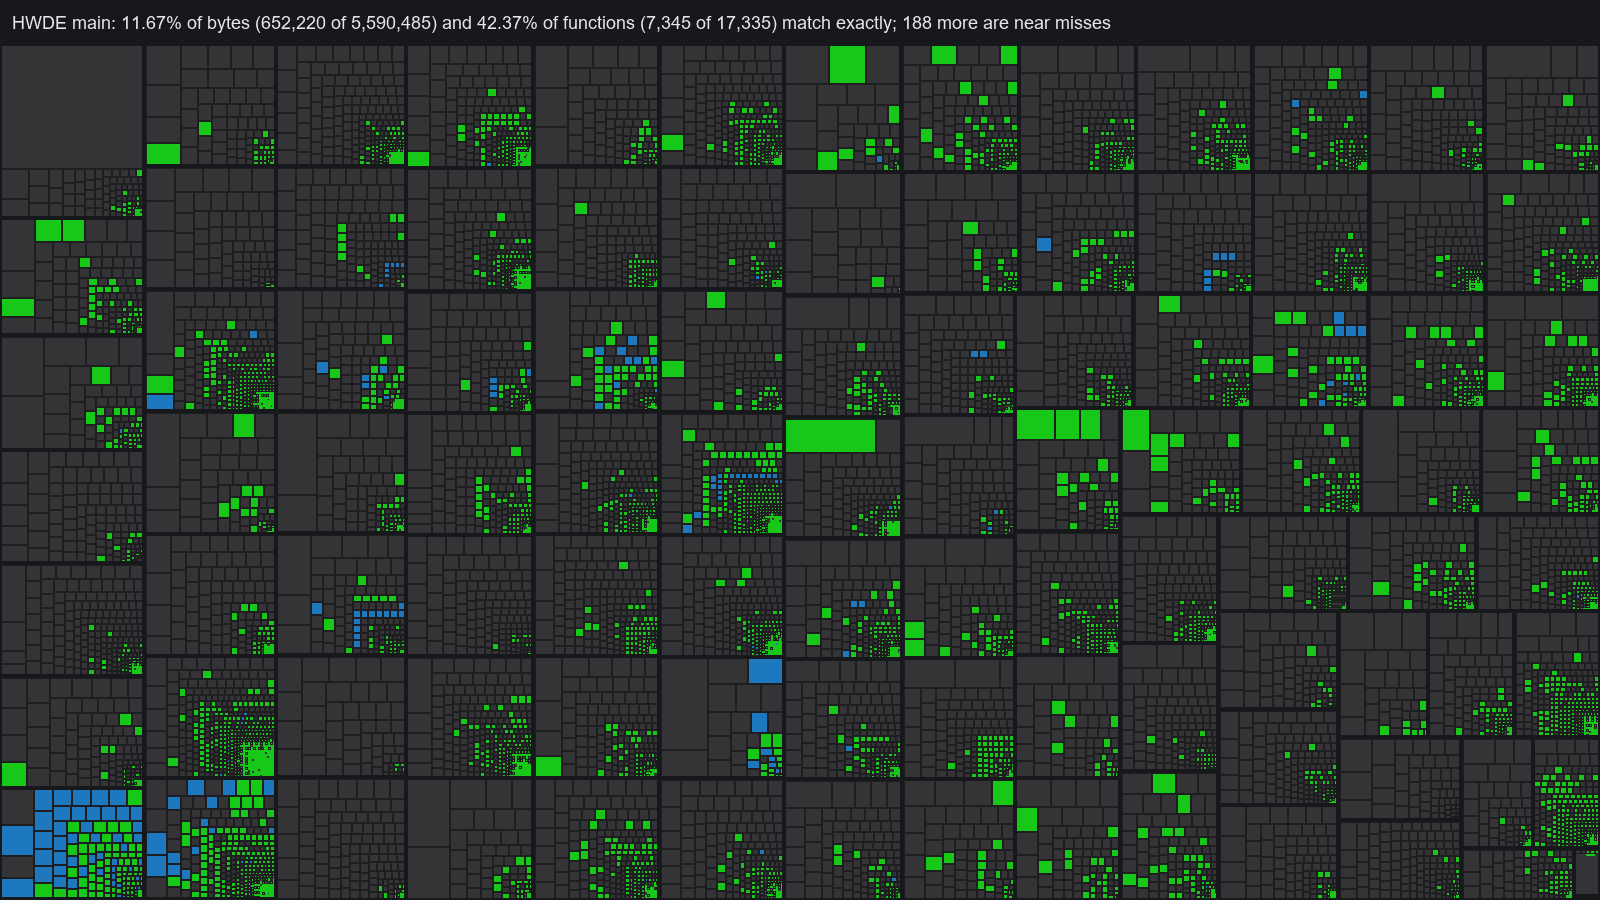
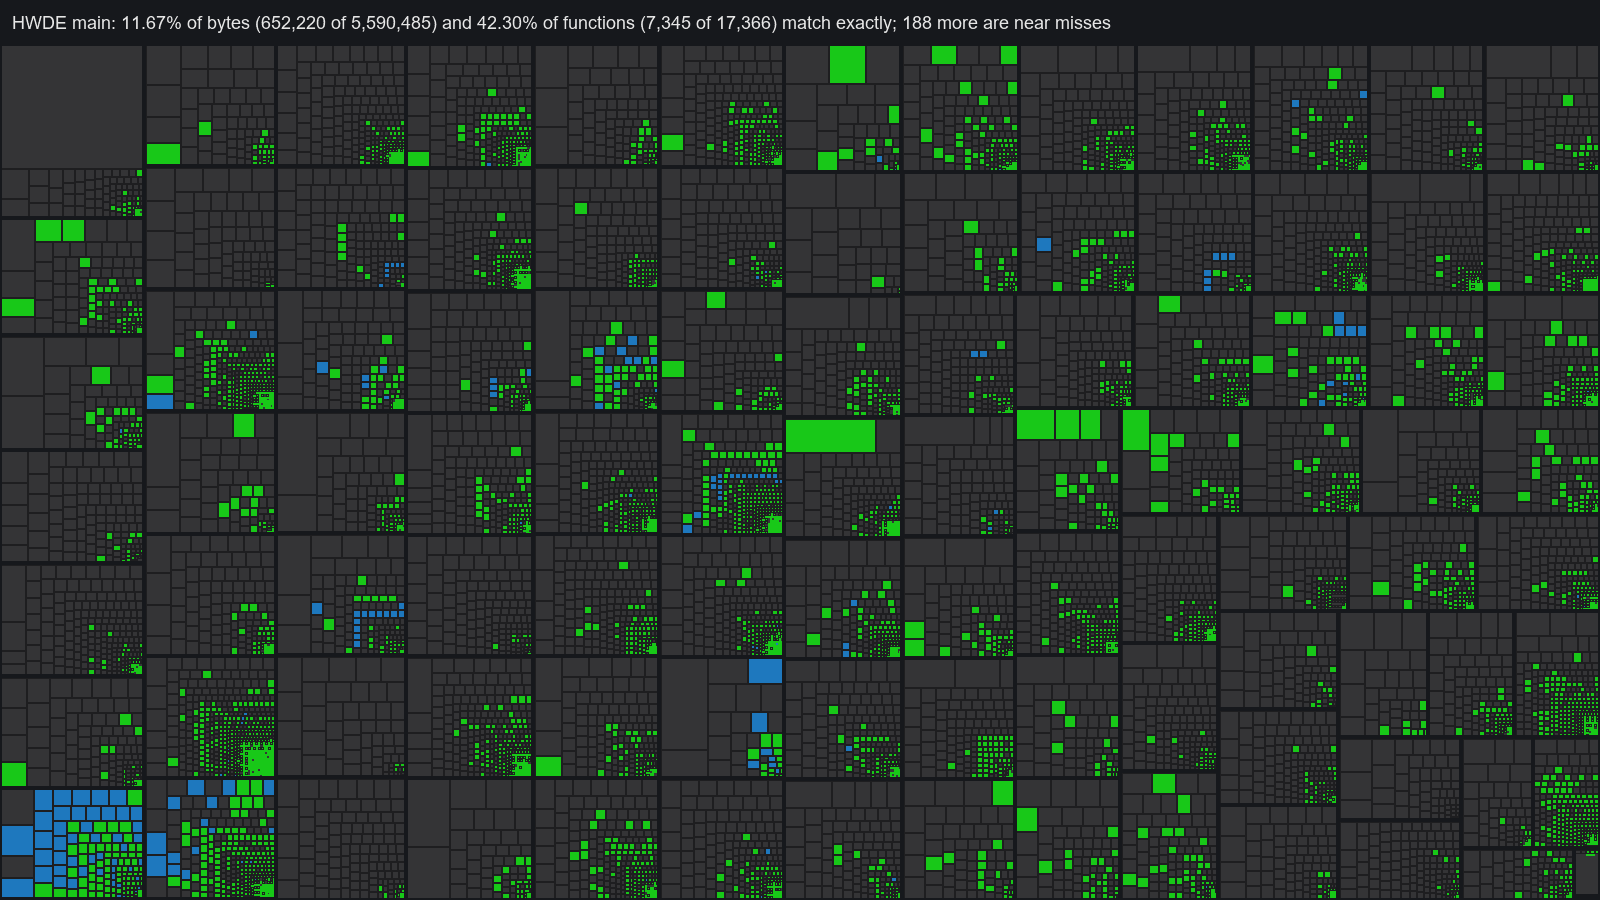
Inventory audit: tail calls into the next function (31 entries)
audit_bounds.py also cuts where an entry ends a piece with an
unconditional b to the very next instruction and that instruction
starts a prologue: a b to the next address is never a jump inside one
function, so it is a tail call into the function that follows (35ccc4,
764 bytes, and 35cfc0, 1,368 bytes, among them). Only that one b may
reach the cut; any other unconditional branch to it keeps a late
prologue inside its function. Applied: 31 entries split in two.
Functions: 17,335 to 17,366; bytes unchanged. The full check shows the
same status for every attempted function.

diff --git a/tools/audit_bounds.py b/tools/audit_bounds.py
@@ -3,7 +3,8 @@
 usage: audit_bounds.py OUT.tsv [--apply]
 
 For every unmatched entry, a split point is an instruction that follows a ret or an unconditional branch (b, br)
-and that no branch inside the entry reaches, where either a prologue starts (a pre-indexed store of callee-saved
+and that no conditional branch inside the entry reaches (an unconditional b to a prologue is a tail call into
+the next function), where either a prologue starts (a pre-indexed store of callee-saved
 registers or of x29/x30 to the stack, or sub sp, sp, #N) or a bl elsewhere in the image calls it. A split is
 proposed only when every piece decodes completely and ends in ret, b or br. Points that already start another
 entry end the entry there instead of making a new one. OUT.tsv lists every proposal (entry, size, pieces); with
@@ -57,10 +58,12 @@ def main():
         ins = list(md.disasm(d[a:a + n], a))
         if len(ins) * 4 != n:
             continue
-        targets = set()
+        targets, jumps = set(), {}
         for i in ins:
-            if (i.mnemonic in ("b", "cbz", "cbnz", "tbz", "tbnz") or i.mnemonic.startswith("b.")) and "#" in i.op_str:
+            if (i.mnemonic in ("cbz", "cbnz", "tbz", "tbnz") or i.mnemonic.startswith("b.")) and "#" in i.op_str:
                 targets.add(int(i.op_str.split("#")[-1], 0))
+            elif i.mnemonic == "b" and "#" in i.op_str:
+                jumps.setdefault(int(i.op_str.split("#")[-1], 0), set()).add(i.address)
         cuts = []
         for k in range(1, len(ins)):
             prev, cur = ins[k - 1], ins[k]
@@ -68,6 +71,10 @@ def main():
                 continue
             pro = (cur.mnemonic in ("stp", "str") and prologue.search(cur.op_str)) or \
                   (cur.mnemonic == "sub" and cur.op_str.startswith("sp, sp, #"))
+            # an unconditional b to a prologue from the instruction just before it is a tail call into the next
+            # function; any other b to it (a late prologue after a fast path) keeps it inside this one
+            if cur.address in jumps and (not pro or jumps[cur.address] != {prev.address}):
+                continue
             if pro or cur.address in called or cur.address in starts:
                 cuts.append(cur.address)
         if not cuts:

diff --git a/README.md b/README.md
@@ -3,7 +3,7 @@
 <!-- progress -->
 ![Progress map](docs/progress.png)
 
-11.67% of bytes (652,220 of 5,590,485) and 42.37% of functions (7,345 of 17,335) match exactly; 188 more are near misses. Green: exact match, blue: near miss, grey: not done; one rectangle per function, sized by bytes, grouped into 64 KB address blocks.
+11.67% of bytes (652,220 of 5,590,485) and 42.30% of functions (7,345 of 17,366) match exactly; 188 more are near misses. Green: exact match, blue: near miss, grey: not done; one rectangle per function, sized by bytes, grouped into 64 KB address blocks.
 <!-- /progress -->
 
 Byte-for-byte matching work for update 1.0.1 `main`. The behavior-equivalent reconstruction in `src/` stays untouched and serves as the semantic reference. See `handoff/MATCHING_HANDOFF.md` for the plan and `docs/toolchain.md` for compiler hashes.
